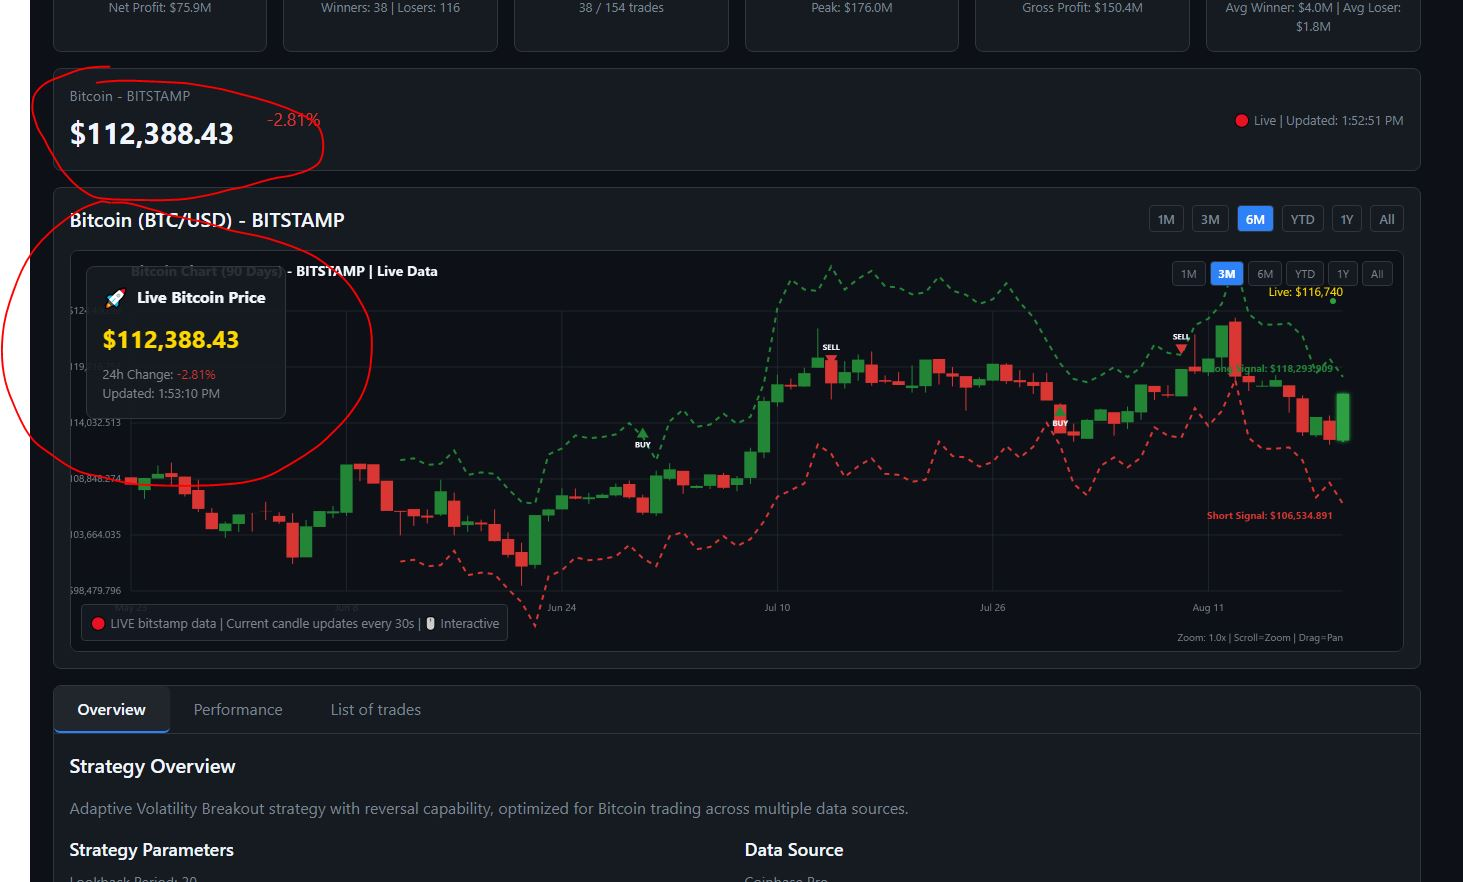
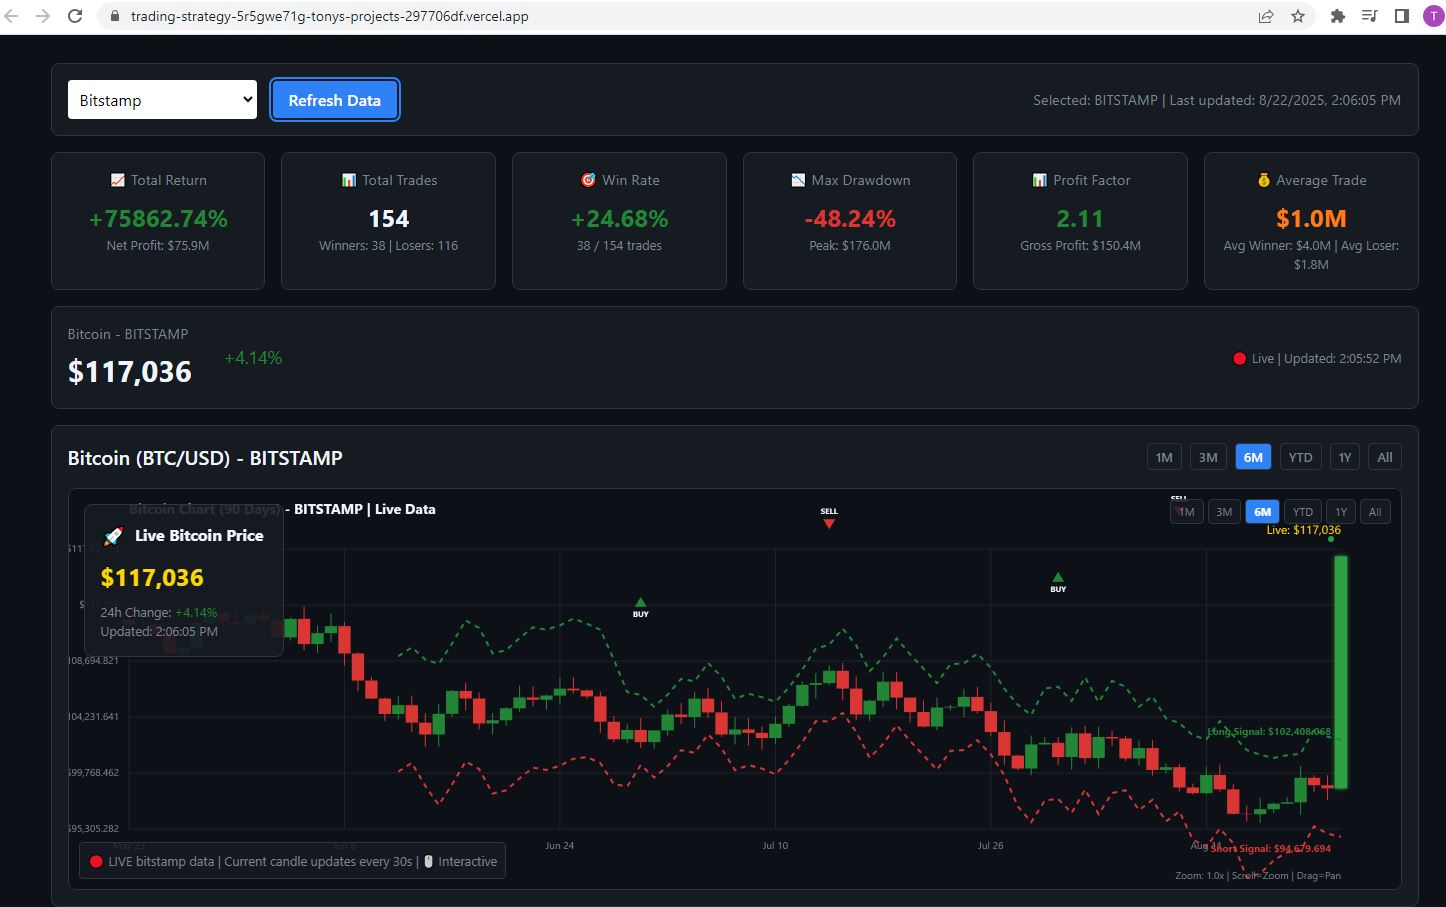
Fix historical chart data to use real Bitcoin prices from CoinGecko API
- Fix CoinGecko API timeframe limits (max 365 days for free tier)
- Update fallback data to start from current live price (~$117k)
- Add better error logging for API failures
- Ensure chart price levels match current market prices
- Fix 'All' timeframe to respect API limitations

🤖 Generated with [Claude Code](https://claude.ai/code)

diff --git a/src/components/LiveHistoricalChart.tsx b/src/components/LiveHistoricalChart.tsx
@@ -48,7 +48,7 @@ export default function LiveHistoricalChart({ height = 400, tradeSignals = [], s
         const yearStart = new Date(new Date().getFullYear(), 0, 1)
         return Math.floor((Date.now() - yearStart.getTime()) / (1000 * 60 * 60 * 24))
       case '1Y': return 365
-      case 'All': return 1000 // Max available
+      case 'All': return 365 // Limited by free API
       default: return 180
     }
   }
@@ -109,42 +109,44 @@ export default function LiveHistoricalChart({ height = 400, tradeSignals = [], s
       return candles
       
     } catch (error) {
-      console.error('Failed to load historical data:', error)
+      console.error('Failed to load historical data from CoinGecko API:', error)
+      console.error('Falling back to generated data starting from current price:', currentPrice)
       // Fallback to static data if API fails
-      return generateFallbackData()
+      return generateFallbackData(currentPrice)
     } finally {
       setLoading(false)
     }
   }
 
   // Fallback data if API fails
-  const generateFallbackData = (): CandleData[] => {
+  const generateFallbackData = (livePriceHint?: number): CandleData[] => {
     const data: CandleData[] = []
     const startDate = new Date()
     startDate.setDate(startDate.getDate() - 90)
     
-    let currentPrice = 112000
+    // Start from current live price if available, otherwise use recent realistic price
+    let startingPrice = livePriceHint || 117000
     
     for (let i = 0; i < 90; i++) {
       const date = new Date(startDate)
       date.setDate(date.getDate() + i)
       
-      const change = (Math.random() - 0.5) * 0.04 * currentPrice
-      const newPrice = currentPrice + change
+      const change = (Math.random() - 0.5) * 0.04 * startingPrice
+      const newPrice = startingPrice + change
       
-      const high = Math.max(currentPrice, newPrice) + Math.random() * 0.01 * newPrice
-      const low = Math.min(currentPrice, newPrice) - Math.random() * 0.01 * newPrice
+      const high = Math.max(startingPrice, newPrice) + Math.random() * 0.01 * newPrice
+      const low = Math.min(startingPrice, newPrice) - Math.random() * 0.01 * newPrice
       
       data.push({
         date: date.toISOString().split('T')[0],
-        open: currentPrice,
+        open: startingPrice,
         high,
         low,
         close: newPrice,
         timestamp: date.getTime()
       })
       
-      currentPrice = newPrice
+      startingPrice = newPrice
     }
     
     return data
